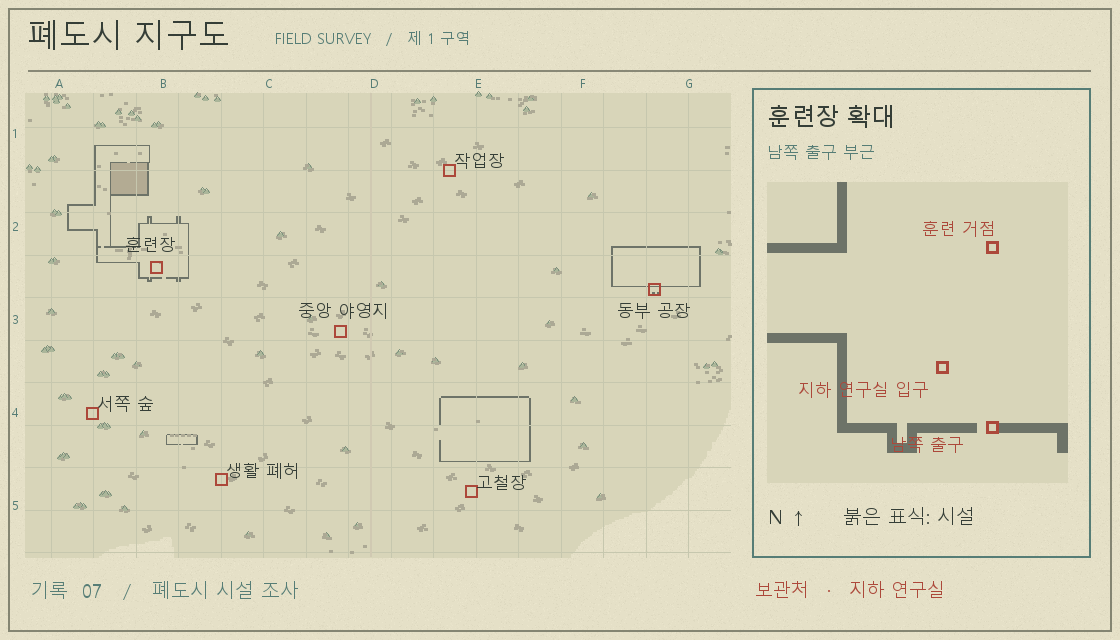
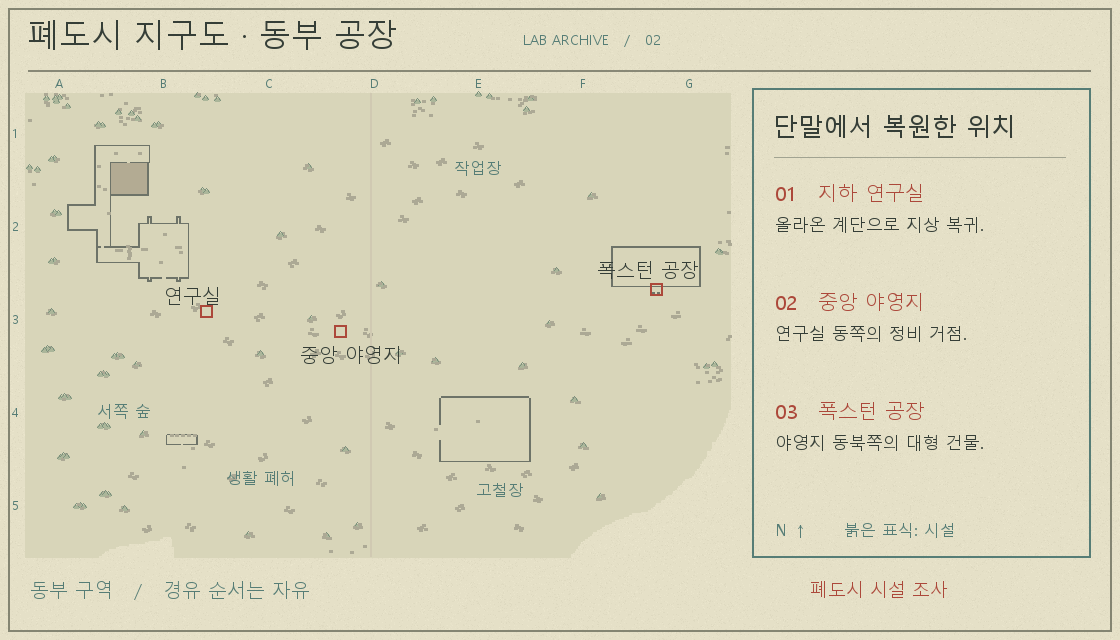
feat: reveal the surface route to Foxton through the laboratory journal

diff --git a/Assets/3.Scripts/Contents/Exploration/FieldHUD.Story.cs b/Assets/3.Scripts/Contents/Exploration/FieldHUD.Story.cs
@@ -33,7 +33,6 @@ public sealed partial class FieldHUD
         storyTitle = Label("Title", rect, "", 22);
         Layout(storyTitle.transform, 32);
         survey = Rect("DistrictSurvey", rect).gameObject.AddComponent<RawImage>();
-        survey.texture = Resources.Load<Texture2D>("Story/DistrictSurvey");
         survey.raycastTarget = false;
         Layout(survey.transform, 400);
         survey.gameObject.SetActive(false);
@@ -58,8 +57,8 @@ public sealed partial class FieldHUD
     {
         var state = FieldSession.State;
         storyObjective.text = !state.HasBasementMap ? (state.basementMapDropped ? "로봇이 떨어뜨린 지도 줍기 · F" : "") : state.sunNightJournalRead
-            ? "공장 파괴 0/3 · 동쪽 폭스턴 공장 찾기   [M] 기록"
-            : FieldLaboratory.PlayerInside ? "지하 연구실 · 북쪽 단말 조사   [M] 지도" : "훈련장 남서쪽 지하 계단 찾기   [M] 지도";
+            ? (FieldLaboratory.PlayerInside ? "공장 파괴 0/3 · 남쪽 계단으로 지상 복귀   [M] 지도" : "공장 파괴 0/3 · 동쪽 폭스턴 공장 찾기   [M] 지도")
+            : FieldLaboratory.PlayerInside ? "지하 연구실 · 북쪽 단말 조사   [M] 지도" : "남쪽 출구 너머 열린 공터에서 연구실 찾기   [M] 지도";
         if ((!state.HasBasementMap && !state.firstNightCleared) || Keyboard.current == null || !Keyboard.current.mKey.wasPressedThisFrame) return;
         if (storyCard.activeSelf) storyCard.SetActive(false);
         else ShowStory(state.HasBasementMap ? StoryPage.Map : StoryPage.Signal);
@@ -87,12 +86,14 @@ public sealed partial class FieldHUD
         switch (page)
         {
             case StoryPage.Map:
-                hud.storyTitle.text = "접힌 지도 · 폐도시 지구도";
-                hud.storyText.text = "훈련장 남서쪽, 남쪽 출구 왼편의 계단으로 내려가자.";
+                bool restored = state.sunNightJournalRead;
+                hud.survey.texture = Resources.Load<Texture2D>(restored ? "Story/DistrictSurvey" : "Story/LabApproach");
+                hud.storyTitle.text = restored ? "복원된 지구도 · 동부 공장" : "접힌 지도 · 연구실 수색 구역";
+                hud.storyText.text = restored ? "야영지는 연구실 동쪽, 폭스턴 공장은 야영지에서 동북쪽이다." : "훈련장을 남쪽으로 나가자. 열린 공터의 붉은 표식이 연구실 계단이다.";
                 break;
             case StoryPage.Journal:
                 hud.storyTitle.text = "PROJECT SUNNIGHT · 연구 일지";
-                hud.storyText.text = "로봇들이 나를 쫓고 있다. 내가 남긴 방어 거점을 찾아라.\n\nNIGHT 명령 — 지상 생존 거점 제거\nSUN 단계 기상 예정 인원 — 2명\n전환 조건 — 지상 생존 거점 0개\n\n지도에 표시된 첫 공장은 동쪽에 있다.";
+                hud.storyText.text = "로봇들이 나를 쫓고 있다. 내가 남긴 방어 거점을 찾아라.\n\nNIGHT 명령 — 지상 생존 거점 제거\nSUN 단계 기상 예정 인원 — 2명\n전환 조건 — 지상 생존 거점 0개\n\n지구도 복원 완료. 지도 탭에서 야영지와 폭스턴 공장의 위치를 확인하자.";
                 break;
             case StoryPage.Signal:
                 hud.storyTitle.text = "거점 수신기 · 첫밤 이후 05:30";

diff --git a/Assets/3.Scripts/Contents/Exploration/FieldLaboratory.cs b/Assets/3.Scripts/Contents/Exploration/FieldLaboratory.cs
@@ -2,7 +2,7 @@ using UnityEngine;
 
 public sealed class FieldLaboratory : MonoBehaviour
 {
-    public static readonly Vector2 Entrance = new Vector2(-38, -32);
+    public static readonly Vector2 Entrance = new Vector2(-9, -58);
     public static readonly Vector2 Center = new Vector2(-520, 350);
     public static bool PlayerInside => Managers.Game.player != null &&
         Vector2.Distance(Managers.Game.player.transform.position, Center) < 15;
@@ -57,6 +57,8 @@ public sealed class FieldLaboratory : MonoBehaviour
     {
         MovePlayer(Entrance + Vector2.up * 3.5f);
         room.SetActive(false);
+        if (FieldSession.State.sunNightJournalRead)
+            FieldHUD.Notify("지상으로 돌아왔다. M으로 야영지와 동쪽 공장의 위치를 확인하자.");
     }
     static void MovePlayer(Vector2 destination)
     {

diff --git a/Assets/3.Scripts/Contents/Exploration/BasementTerminal.cs b/Assets/3.Scripts/Contents/Exploration/BasementTerminal.cs
@@ -11,6 +11,8 @@ public sealed class BasementTerminal : MonoBehaviour, IInteractObject
     void Read()
     {
         if (!FieldLaboratory.PlayerInside || !FieldSession.State.HasBasementMap || FieldHUD.IsOpen) return;
+        if (!FieldSession.State.sunNightJournalRead)
+            FieldHUD.Notify("단말에서 지구도를 복원했다. 지도에 야영지와 폭스턴 공장을 표시했다.");
         FieldSession.State.sunNightJournalRead = true;
         FieldHUD.ShowStory(FieldHUD.StoryPage.Journal);
     }
